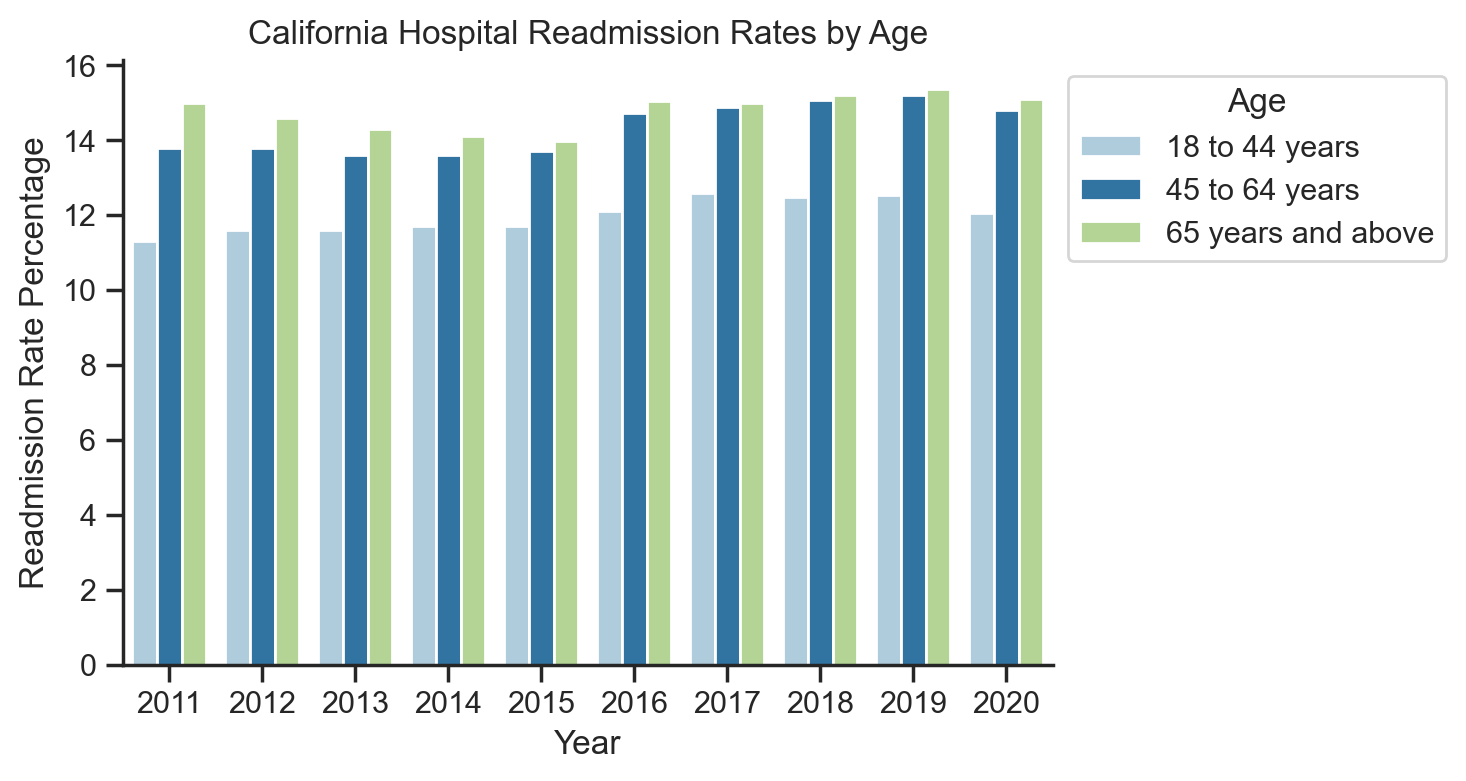
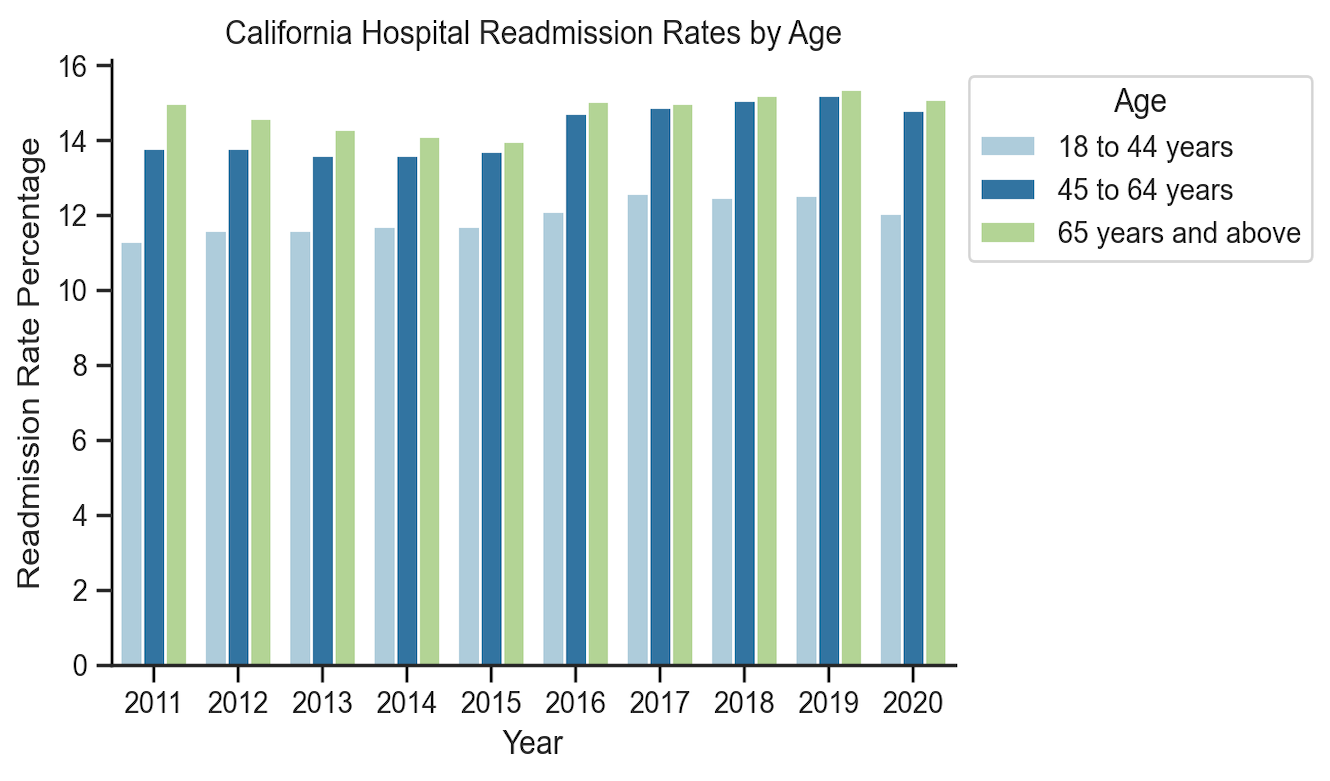
Modified image sizes

diff --git a/README.md b/README.md
@@ -28,5 +28,14 @@ I analyzed the readmission rate by Age, Sex, Race-Ethinicity, Payer, and County.
 &nbsp; &nbsp; &nbsp; &nbsp;
   <img alt="By Sex" src="images/by-sex.png" width="45%">
 </p>
-
+<p align="center">
+  <img alt="By Race" src="images/by-race.png" width="45%">
+&nbsp; &nbsp; &nbsp; &nbsp;
+  <img alt="By Payer" src="images/by-payer.png" width="45%">
+</p>
+<p align="center">
+  <img alt="By County" src="images/ca-county-map.png" width="45%">
+&nbsp; &nbsp; &nbsp; &nbsp;
+  <img alt="By County Overtime" src="images/by-county-overtime.png" width="45%">
+</p>
 ## Step 4 Provide Recommendations
